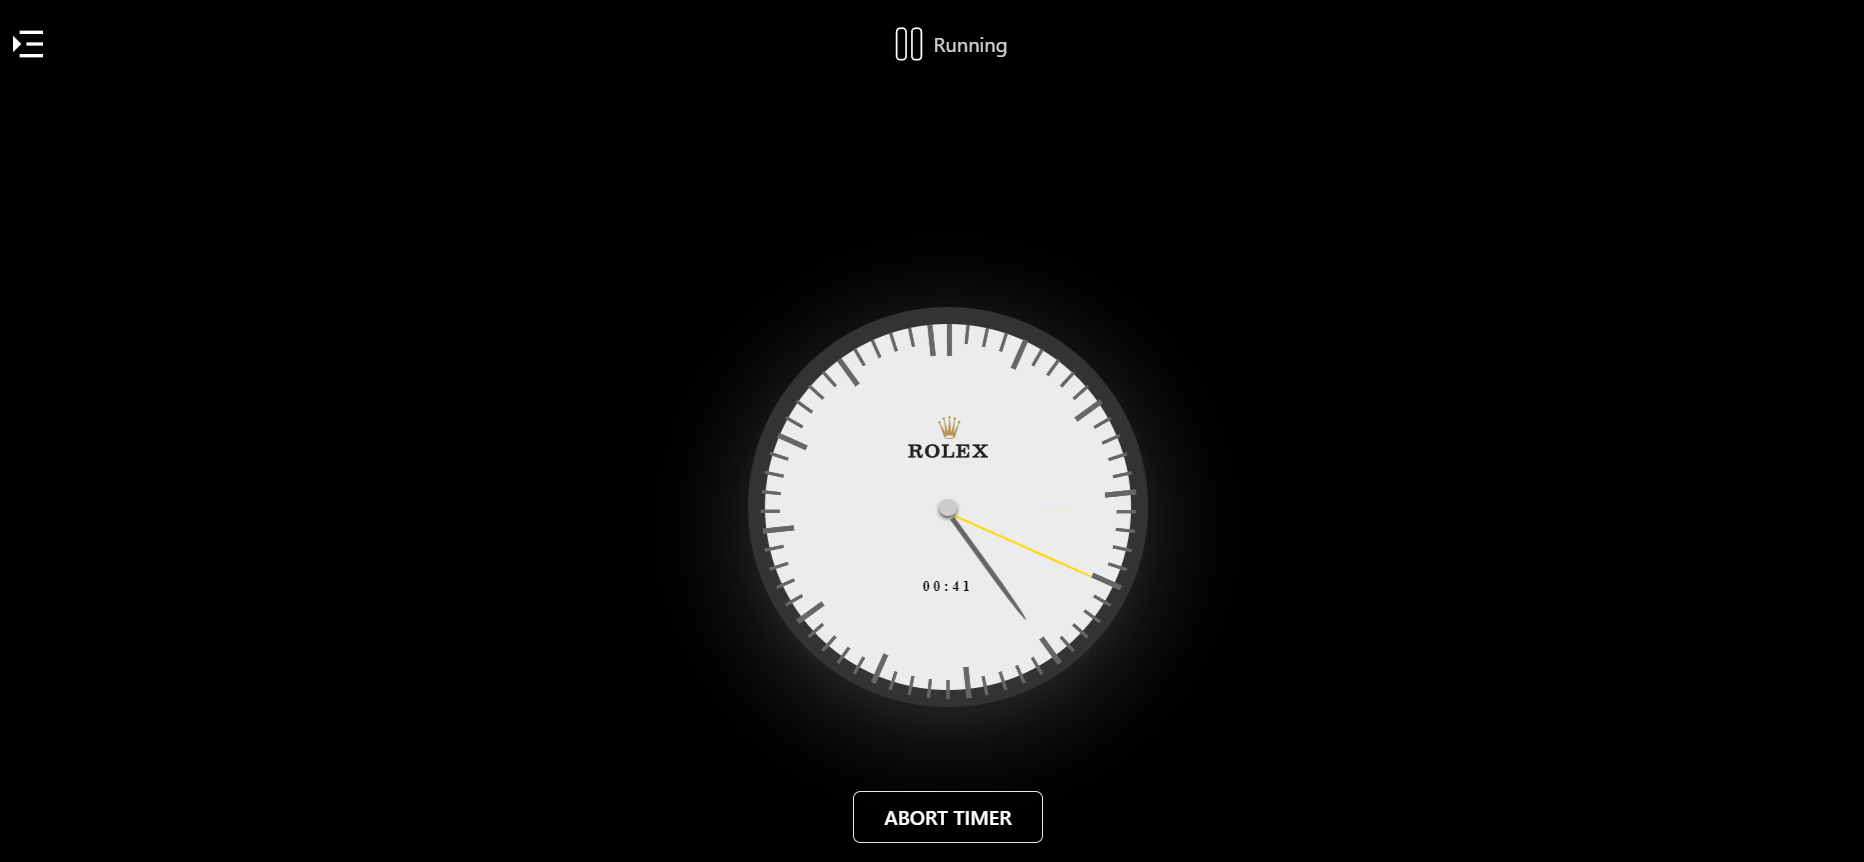
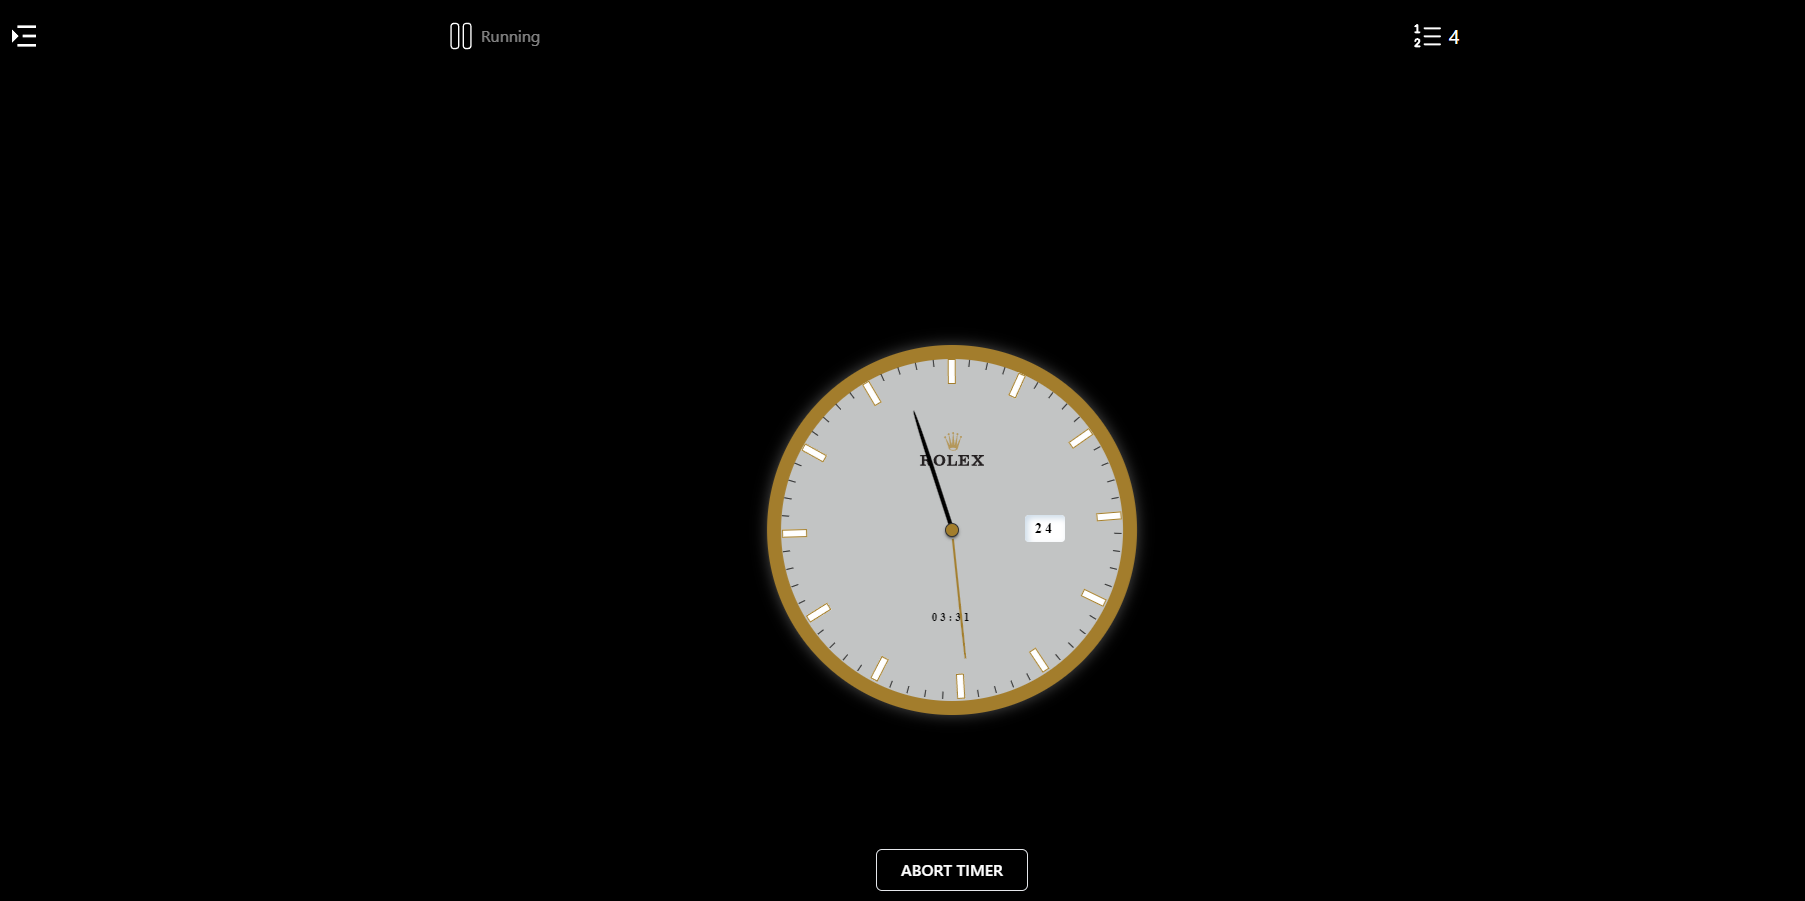
UI-update to: analog timer

diff --git a/src/index.css b/src/index.css
@@ -10,14 +10,14 @@ body {
 }
 
 .clock {
-  background: #ececec;
+  background: #c2c4c4;
   width: 370px;
   height: 370px;
   margin: 8% auto 0;
   border-radius: 50%;
-  border: 14px solid #333;
+  border: 14px solid #a37d2c;
   position: relative;
-  box-shadow: 0 1vw 6vw -1vw rgba(146, 146, 146, 0.507);
+  box-shadow: #505050a9 0px 0px 15px;
 }
 
 .dot {
@@ -25,7 +25,7 @@ body {
   height: 14px;
   border: 1px solid #333;
   border-radius: 50%;
-  background: gold;
+  background: #a37e2c;
   top: 0;
   left: 0;
   right: 0;
@@ -42,13 +42,13 @@ body {
   z-index: 6;
   width: 4px;
   height: 122px;
-  background: #666;
+  background: #000000;
   top: 46px;
   left: 50%;
   margin-left: -2.3px;
   border-top-left-radius: 50%;
   border-top-right-radius: 50%;
-  transform-origin: 50% 120px;
+  transform-origin: 50% 124px;
 }
 
 .second-hand {
@@ -56,22 +56,22 @@ body {
   z-index: 7;
   width: 2px;
   height: 120px;
-  background: gold;
+  background: #a37e2c;
   top: 44px;
   left: 50%;
   margin-left: -1px;
   border-top-left-radius: 50%;
   border-top-right-radius: 50%;
-  transform-origin: 50% 125px;
+  transform-origin: 50% 128px;
 }
 
 
 .diallines {
   position: absolute;
   z-index: 2;
-  width: 2px;
-  height: 15px;
-  background: #666;
+  width: 1px;
+  height: 7px;
+  background: #0000007a;
   left: 50%;
   margin-left: -1px;
   transform-origin: 50% 170px;
@@ -80,11 +80,12 @@ body {
 .diallines:nth-of-type(5n) {
   position: absolute;
   z-index: 2;
-  width: 4px;
+  width: 8px;
   height: 25px;
-  background: #666;
+  background: #ffffff;
+  border: 1px solid #a37e2c;
   left: 50%;
-  margin-left: -1px;
+  margin-left: -4px;
   transform-origin: 50% 170px;
 }
 
@@ -94,7 +95,7 @@ body {
   height: 27px;
   border-radius: 4px;
   text-align: center;
-  color: #000;
+  color: #000000;
   font-size: 11px;
   top: 156px;
   right: 17%;
@@ -102,7 +103,7 @@ body {
   font-weight: 700;
   z-index: 3;
   letter-spacing: 3px;
-  background-color: rgba(255, 255, 255, 0.979);
+  background-color: #ffffff;
   display: flex;
   justify-content: center;
   align-items: center;
